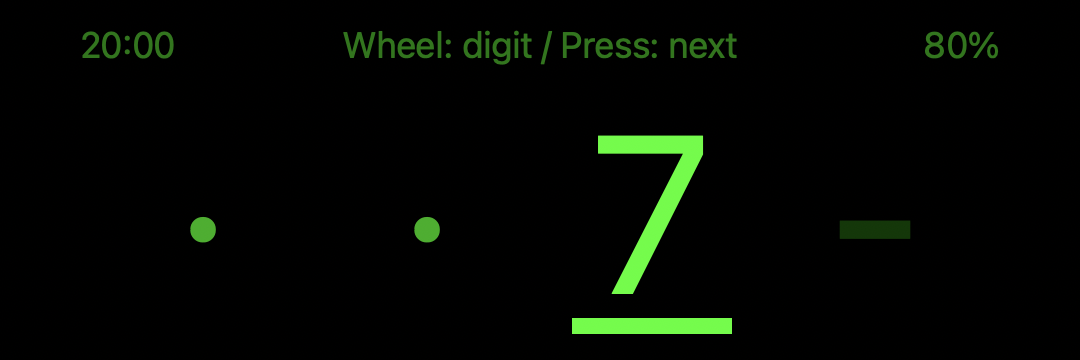
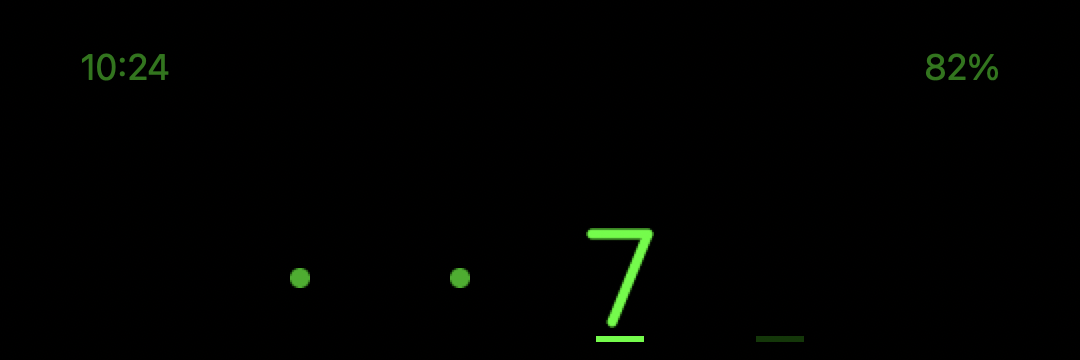
tmg16(2): the lock design text describes the TMG16 PIN screen, the always-shown phone row, and the README picture shows the new screen
docs/lock-design.md §3 describes the screen as built: the drawn numeral, caret, dots and track bars, band T
and the hint. §4 now says the Glasses lock hub row is always shown (since the C22 respin), and the §7
heading no longer says A3 and A5 are still to come. The design-system rules say the PIN digit is a drawn
glyph like the turn arrow, 34x50 px. docs/images/readme/glasses-lock.png is the gate's render of the new
PIN screen (EN, third slot focused on 7, two dots before it), and its hash is updated in
scripts/reviewed-assets.json.

Claude-Session: https://claude.ai/code/session_01VJJNdvCkaC5AScCWxzxDcY

diff --git a/docs/lock-design.md b/docs/lock-design.md
@@ -69,7 +69,9 @@ These follow from §2, §3 and §7 and are what `firmware/src/lock-v1/lock_core.
 
 All screens follow the glasses rules in `docs/design-system/README.md`: 540×180 page, primary content in band B, no boxes, focus shown by brightness and the caret, hints in band T for 3 s.
 
-**PIN entry.** Four slots centred in band B at `lens-hero`. Entered slots are dots at `lens-high`. The focused slot shows a digit at `lens-full` with the caret under it. Empty slots are short `lens-track` bars. The focused digit starts at 0 for every slot (never at the previous digit, which would leak it). Band T shows the time (left) and battery (right) at `lens-mid`, as on the launcher menu, and between them the hint "Wheel: digit / Press: next" (ZH "转动：数字 · 按下：下一位"; the EN string stays ASCII) for 3 s.
+**PIN entry** (as built since TMG16; board `docs/design-system/screens/LensLock.dc.html`). Four slots in band B, 80 px apart and centred on the page. The focused slot shows its digit as a drawn numeral, not type: 34×50 px with 5 px round strokes at `lens-full`, as tall as band B allows above the system caret (24×3, `lens-full`, 4 px under the numeral; it moves to the focused slot without the slide, because the lock screen has no animation timer). The ten numerals are 4-bit tables in `firmware/src/lock-v1/lock_glyphs.h`, generated by `firmware/tools/lock_glyphs.py`. Entered slots are 10 px dots at `lens-high` at the numeral's middle. Empty slots are 24×3 `lens-track` bars on the caret's row. Dots and bars are shapes; no digit other than the focused one is ever drawn. The focused digit starts at 0 for every slot (never at the previous digit, which would leak it). Band T shows the time (left) and battery (right) at `lens-label` in `lens-mid`, as on the launcher menu. The hint "Wheel: digit / Press: next" (ZH "转动：数字 · 按下：下一位"; the EN string stays ASCII) replaces them at `lens-high` for 3 s after the screen opens and again after every turn or press, and fades out over its last 300 ms (TransientHint, `tio_hint.h`). The brightest numeral (8) peaks at 0.529 in the 1° window, under the 0.65 limit for the band-B primary readout. Every canvas buffer the screen hands to the stock draw is 64-byte aligned (the stock draw rounds the pointer up to 64; TMG15's caret bar was not aligned).
+
+**Other lock screens.** One line in band M at `lens-body` in `lens-high` and one in band B at `lens-primary` in `lens-full`, both centred. The layout gate (`firmware/tests/tmg7_layout_preview.m`, Lock) checks every screen strictly, EN and ZH, and every digit 0–9 in every slot.
 
 - Turn: change the digit, one step per `lens-wheel-detent`, wrapping 9 → 0.
 - Press: accept the digit and move on. The fourth press submits.
@@ -88,7 +90,7 @@ All screens follow the glasses rules in `docs/design-system/README.md`: 540×180
 
 ## 4. On the phone
 
-A hub row "Glasses lock" in the Glasses section, shown only when the glasses report the lock capability. Its subtitle is the state: "Off", "Unlocked", "Locked".
+A hub row "Glasses lock" in the Glasses section, always shown (since the C22 respin: hiding it on a stale or refused capability sample lost Unlock while locked). The phone remembers, per glasses, that they have the lock. Its subtitle is the state: "Off", "Unlocked", "Locked". With no glasses or glasses without the lock, the page explains why.
 
 The page (inset grouped, per the phone rules):
 
@@ -157,7 +159,7 @@ Not shown in the emulator, so on the owner's device checklist: the wake word whi
 
 **What is being protected on the glasses themselves:** the to-do and schedule lists and the dashboard widget configuration are stored on the glasses. Whether memories, recordings or cached notifications are too was not traced; most assistant data lives on the phone or in the cloud and is reached through the gates above.
 
-## 7. Input, timing and reboot (from Block A; A3 idle signal and A5 still to come)
+## 7. Input, timing and reboot (from Block A)
 
 **Input while locked (decisions A and E).** Two entry patches, on the stock keypad read callback (0x1088f67c) and the stock wheel read callback (0x1078e644). Each patched entry branches to our code, which calls stock through a copy of the replaced instructions. Every caller (the input-device slot and NavigationWheelCapture's chained call) passes through it, so stock lifecycles that reset the slot cannot route around the lock.
 

diff --git a/docs/design-system/README.md b/docs/design-system/README.md
@@ -66,7 +66,7 @@ Turbo IO has two surfaces that work as a pair. The **phone** is where people set
 
 The glasses are not a small phone. The field of view is about 23.5°, so the centre of it has to stay clear for the real world. There is no eye tracking. Edges lose brightness and color. Input is one-dimensional. Design for a two-second glance.
 
-**1. Size everything by angle.** One degree is `lens-ppd` pixels (24.8, an unverified estimate). Write sizes as angles and convert, so that a measured ppd changes one number. Human-factors practice (for example MIL-STD-1472) puts minimum legible character height around 16–24 arcminutes. Our floor is `lens-min` (16px, about 39′ em and about 27′ cap height). Use only the ramp `lens-hero` 48, `lens-primary` 32, `lens-title` 24, `lens-body` 20, `lens-label` 18, `lens-min` 16. 14px is retired.
+**1. Size everything by angle.** One degree is `lens-ppd` pixels (24.8, an unverified estimate). Write sizes as angles and convert, so that a measured ppd changes one number. Human-factors practice (for example MIL-STD-1472) puts minimum legible character height around 16–24 arcminutes. Our floor is `lens-min` (16px, about 39′ em and about 27′ cap height). Use only the ramp `lens-hero` 48, `lens-primary` 32, `lens-title` 24, `lens-body` 20, `lens-label` 18, `lens-min` 16. 14px is retired. The lock screen's PIN digit is a drawn glyph like the navigation turn arrow, not type: 34×50 px with 5 px round strokes, so it is not bound by the ramp.
 
 **2. Priority runs bottom-up.** The display sits high in the field of view, so the lower an item sits, the closer it is to where the eye naturally rests.
 - **Band B** (`lens-band-b`, y 112–172) holds the single thing the page is for: the turn and distance, the current lyric, the timer, the answer.
